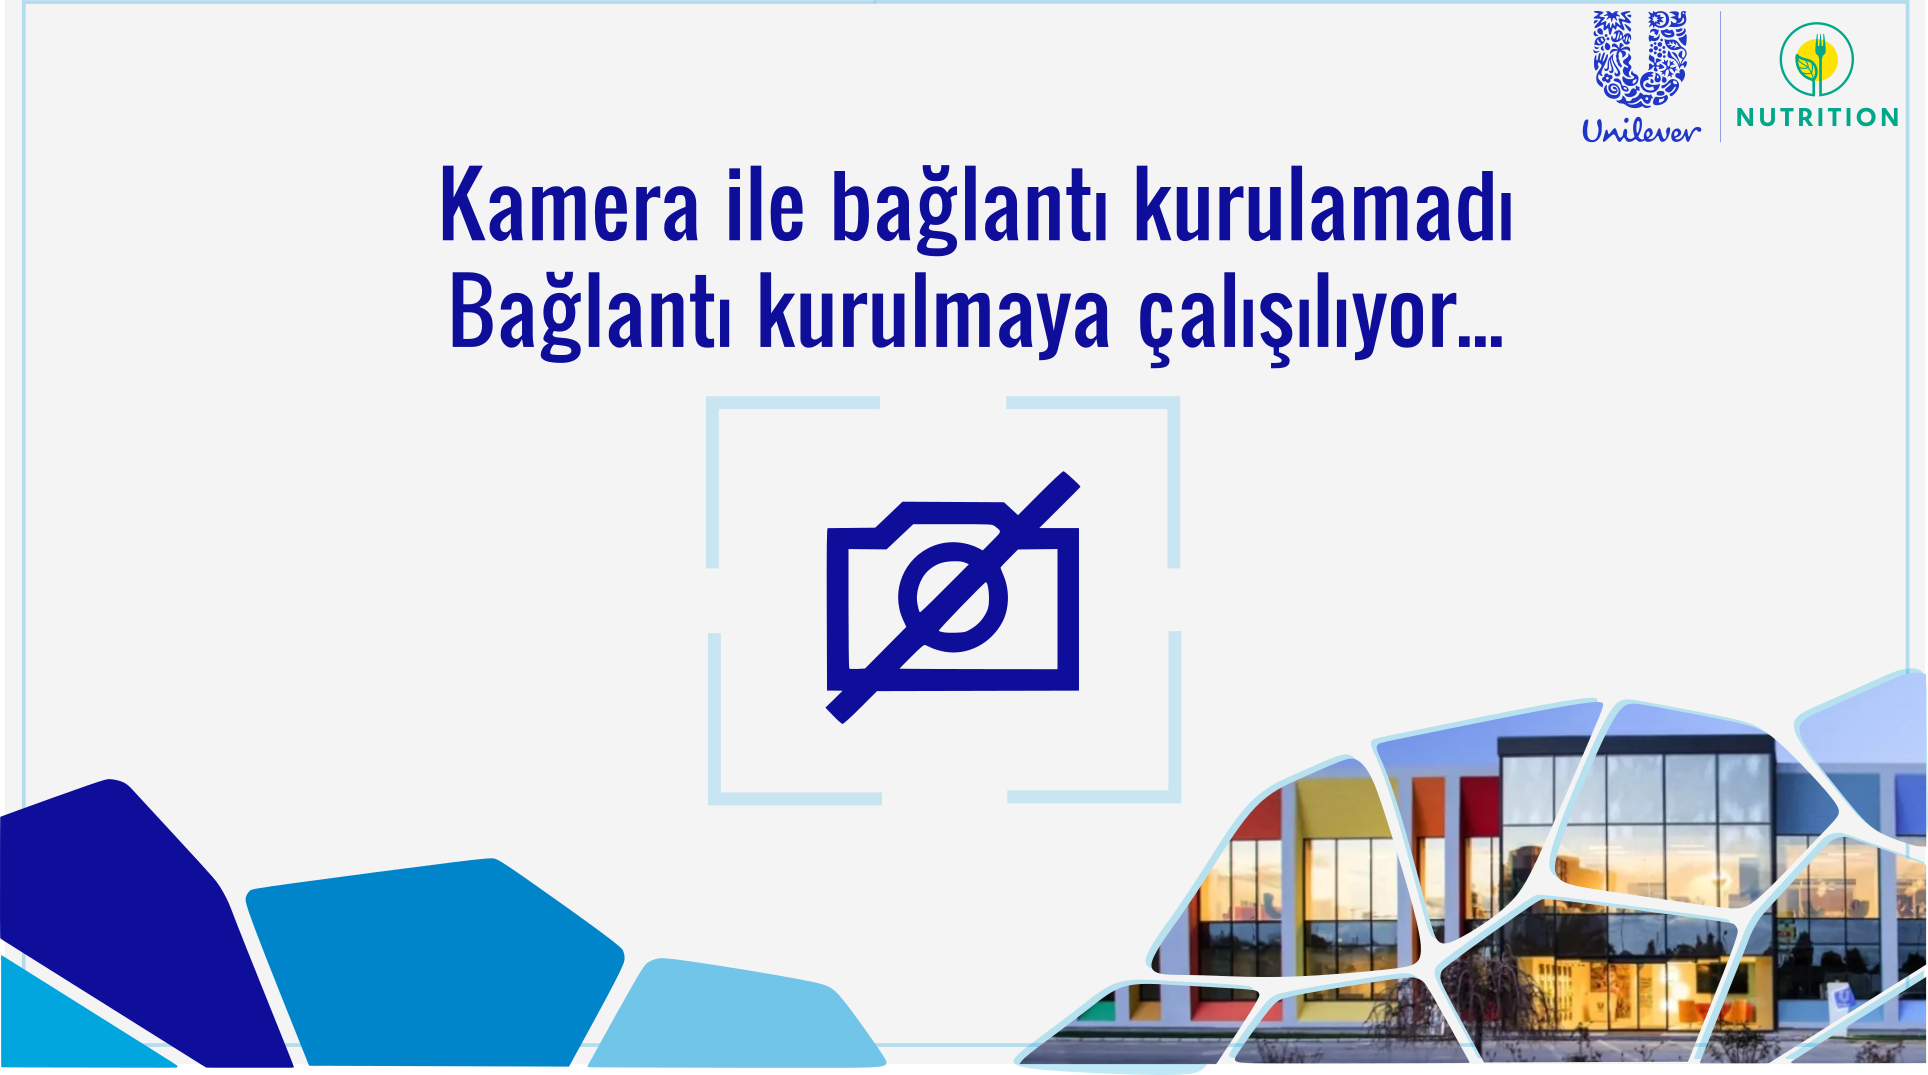
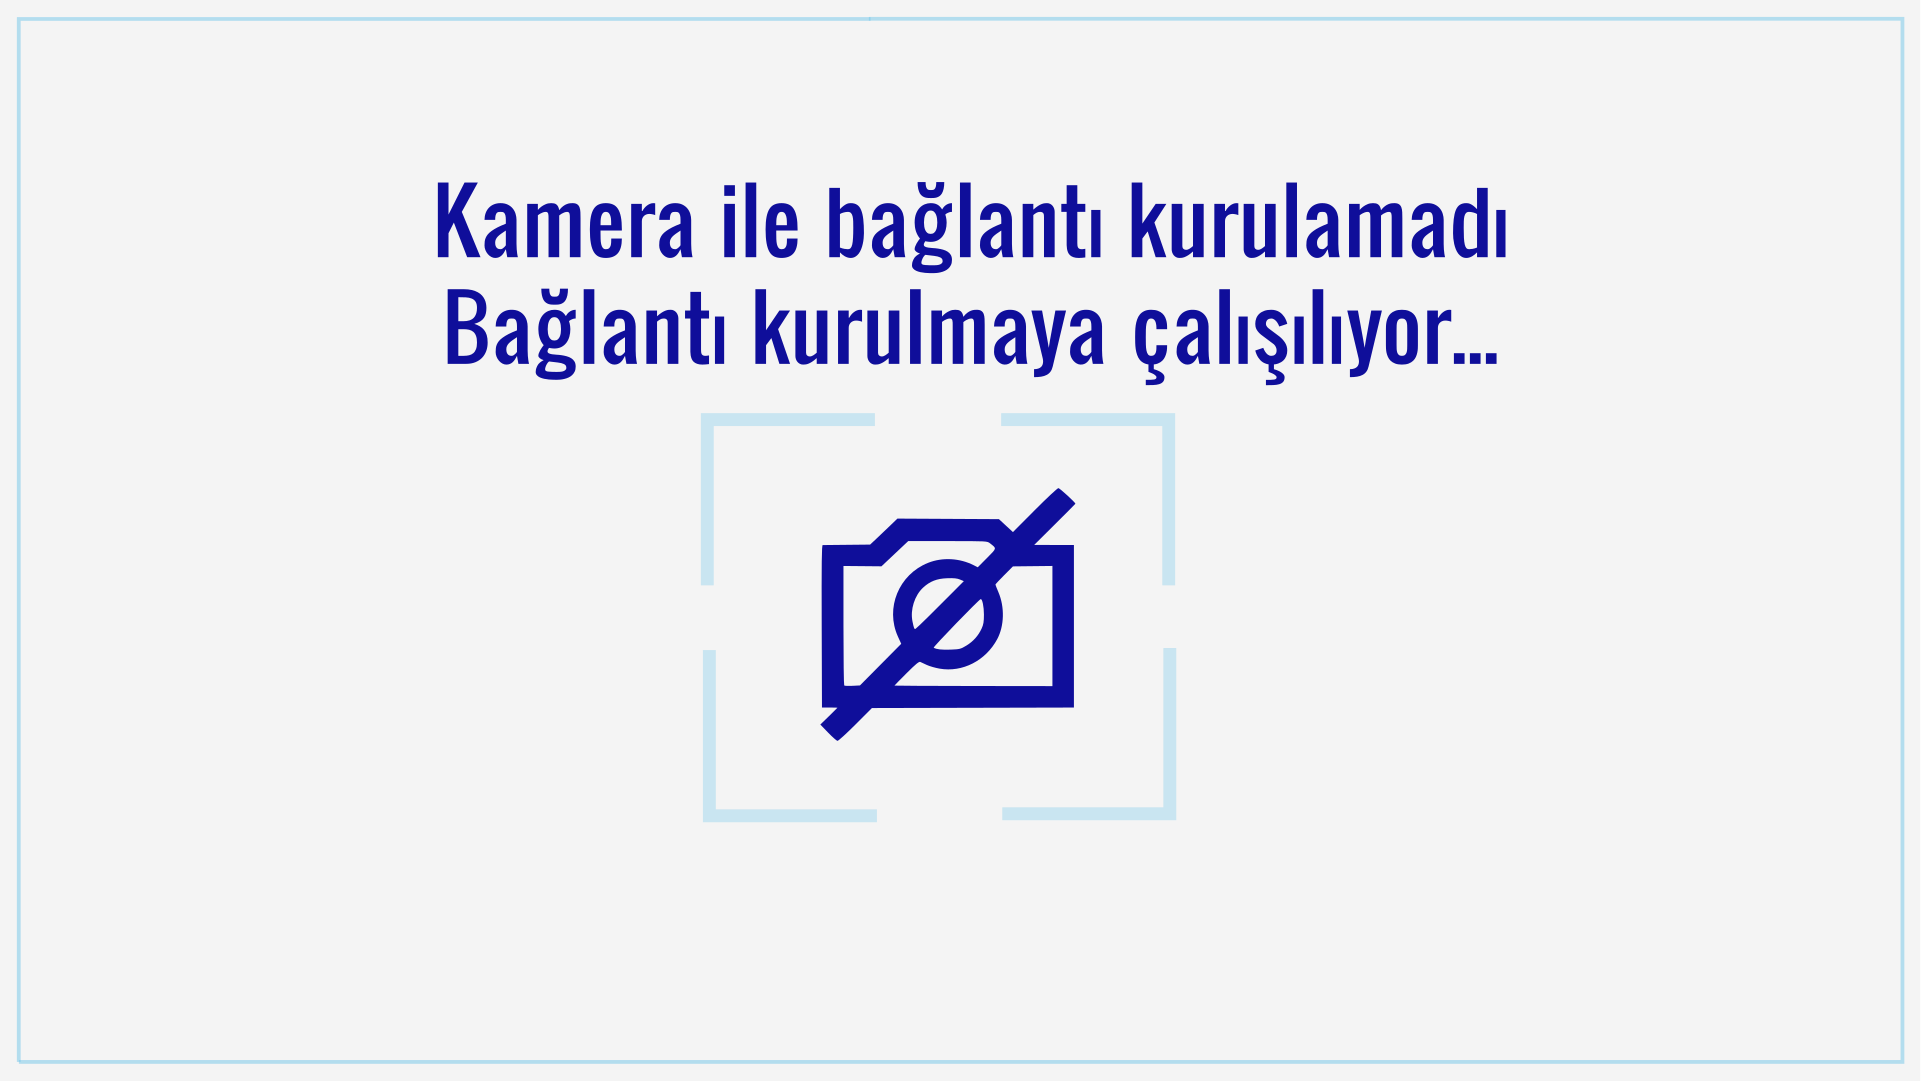
ui_items and slides

diff --git a/miru_main.py b/miru_main.py
@@ -51,7 +51,7 @@ wrist_cursor_object = wrist_cursor.WristCursor()
 cv2.namedWindow('Miru', cv2.WINDOW_NORMAL)
 cv2.setWindowProperty('Miru', cv2.WND_PROP_FULLSCREEN, cv2.WINDOW_FULLSCREEN)
 last_time_ui_restart = time.time()
-UI_RESTART_DURATION_SEC = 10
+UI_RESTART_DURATION_SEC = 1800 # Restart UI periodically to prevent alerts popping up on top of UI
 
 # INIT CAMERA ========================================================================================================
 cap = None
